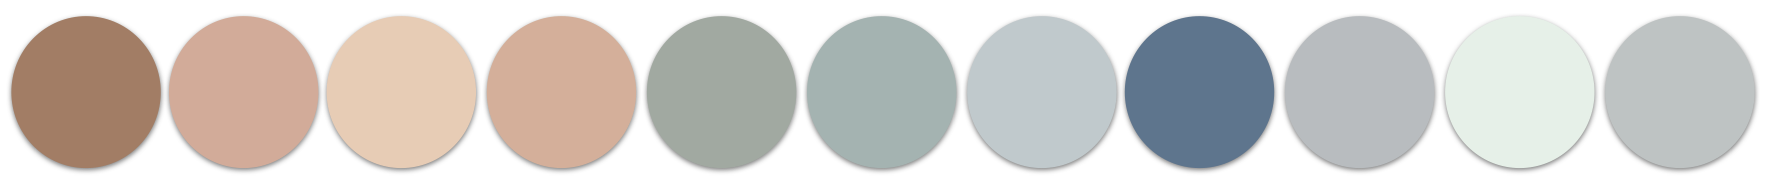
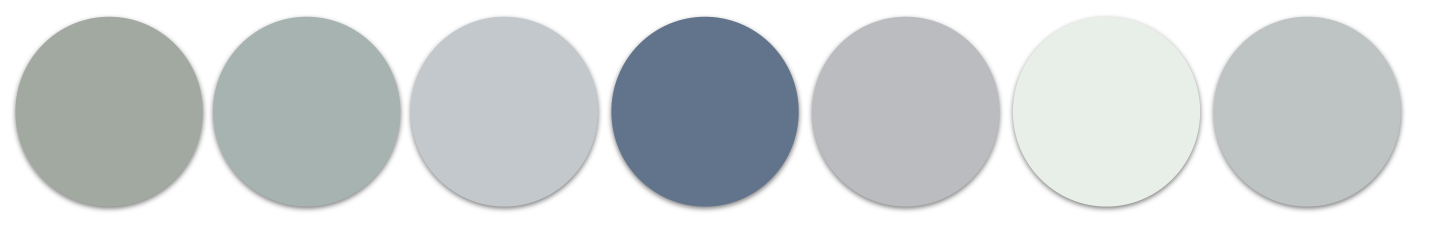
revision

diff --git a/index.html b/index.html
@@ -31,7 +31,9 @@
     <link rel="stylesheet" href="css/animate.min.css">
     <link rel="stylesheet" href="css/font-awesome.min.css">
     <link rel="stylesheet" href="css/masking-input.css"/>
-    <link  rel="stylesheet" href="https://fonts.cdnfonts.com/css/olivia-dhorgent">
+    <link rel="stylesheet" href="https://fonts.cdnfonts.com/css/olivia-dhorgent">
+    <link rel="stylesheet" href="http://fonts.cdnfonts.com/css/faradilla">
+    <link rel="stylesheet" href="http://fonts.cdnfonts.com/css/adega-serif">
     <script src="js/vendor/modernizr-2.8.3-respond-1.4.2.min.js"></script>
 
 
@@ -51,7 +53,7 @@
                         <ul class="primary-nav">
                             <!-- <li><a href="#eng-pics">How We Met</a></li> -->
                             <li><a href="#events">Wedding Details</a></li>
-                            <li><a href="#instagram">##CHINOwsWhatsBestforJONA
+                            <li><a href="#instagram">#CHINOwsWhatsBestforJONA
                             </a></li>
                             <!-- <li class="hidden-sm hidden-xs"><a href="#video-bg">Venue</a></li> -->
                         </ul>
@@ -203,15 +205,24 @@
         <div class="row">
             <div class="col-md-12 text-center">
                 <div class="wp3">
-                    <h5>CEREMONY and RECEPTION</h5>
+                    <h5>CEREMONY</h5>
                     <br>
                     <p>The ceremony will start at exactly <strong>3:00PM</strong> at <strong>OUR LADY OF EPHESUS CHAPEL, Bella Rosa Gardens, Silang, Cavite
                        </strong>.
                        <br>Please be there <strong>at least 15 minutes</strong> before the time so you will not miss anything.</p>
+                       <p>Please be informed that due to the restrictions, only family members and part of the entourage can enter the chapel during the ceremony,<br>
+                        but you will still be able to witness us tie the knot via <strong>livestream in Zoom/Facebook.</strong>
+                    </p>
+                    <p></p>
                 </div>
                 <div class="wp6">
-                    <p>Cocktails, dinner & good times will follow after the cermony. There are ample parking space beside the venue, you don't need to worry where you can leave your cars.</p>
-                    <p>Should you have trouble finding the venue you can refer to the map below or search the venue in any of your navigation apps.</p>
+                    <h5>RECEPTION</h5>
+                    <br>
+                    <p>Cocktails, dinner & good times will follow after the ceremony.
+                        <br>The chapel and the reception venue is all located in one private estate which was specifically reserved for our special day.</p>
+                    <p>For the other guests, the newlyweds will see you at the <strong>reception at 4:30 PM.</strong></p>
+                    <p>There is ample space in the vicinity thus parking would not be an issue.</p>
+                    <p>Should you have trouble finding the venue, you can refer to the map below or search the venue in any of your navigation apps.</p>
                         <!-- <img src="img/map.png"> -->
                         <h5></h5>
                         <iframe src="https://www.google.com/maps/embed?pb=!1m18!1m12!1m3!1d3868.6653160618184!2d120.97597426445779!3d14.155763540087012!2m3!1f0!2f0!3f0!3m2!1i1024!2i768!4f13.1!3m3!1m2!1s0x33bd798286693c2d%3A0x87e0bfb9805edc53!2sBella%20Rosa%20Gardens!5e0!3m2!1sen!2sph!4v1635674150880!5m2!1sen!2sph" width="600" height="450" style="border:0;" allowfullscreen="" loading="lazy"></iframe>
@@ -226,19 +237,20 @@
                     <div class="col-sm-8 col-xs-8 col-md-4 col-lg-4">
                     <img src="img/wear.png">
                     </div>
-                    <div class="row container">
+                    <div class="row container" id="swatches">
                     <img src="img/swatches.png">
                     </div>
                     <div class="col-sm-2 col-xs-2 col-md-4 col-lg-4"></div>
                     </div>
                     <p></p>
-                    <p>We hope our wedding will be a fun excuse for you to dress up using the colors we chose.</p>
+                    <p>We hope our wedding will be a fun excuse for you to dress up using the colors we chose <strong>(Any shades of pastel blue, green & gray)
+                    </strong>.</p>
                     <p>Gentlemen may dress in a pair of <strong>suit and or longsleeves</strong>, while the ladies may wear <strong>long gowns and cocktail dresses</strong>.<br>
                     </p>
-                    <p>Please wear <strong>solid neutral/earth tones</strong> with no or very minimal prints.<br>
-                    Kindly avoid wearing white as it is reserved for the Bride.<br> 
+                    <p>Please wear <strong>solid colors or with no to very minimal prints.</strong><br>
+                        Kindly avoid wearing white, black, loud colors, denim pants and sneakers.<br> 
                     </p>
-                    <p>The venue is a lush garden, we would advise everyone to comfortable footwear such as chunky heels or flats. </p>
+                    <p>The venue is a lush garden; we would advise everyone to wear comfortable footwear such as block heels or evening flats</p>
                     <p>To ensure the safety of everyone attending, we will require guest to <strong>wear proper face masks</strong> at all times.
                 </div>
                 <div class="wp6" id="gift">
@@ -256,7 +268,7 @@
                     <p>With all that we have, we've been truly blessed,<br>
                         your presence and prayers are all that we request,<br>
                         But if you wish us to give nonetheless,<br>
-                        a monetary gift is one we suggest.
+                        a <strong>monetary gift</strong> is one we suggest.
                         </p>
                 </div>
                 <div class="wp3">
@@ -321,7 +333,7 @@
     <div class="container">
         <div class="row">
             <div class="col-md-6 col-md-offset-3">
-                <h6>RSVP</h6>
+                <h1>RSVP</h1>
                 <p>We would greatly appreciate it if you could RSVP by<br>
                     <strong>November 15, 2021</strong></p>
                 <form id="rsvp-form" class="rsvp-form"

diff --git a/css/styles.min.css b/css/styles.min.css
@@ -9,7 +9,8 @@ p {
 }
 
 h1 {
-    font-size: 60px
+    font-size: 60px;
+    color: #63748B;
 }
 
 h2 {
@@ -42,9 +43,9 @@ h5 {
 h6 {
     color: #63748B;
     font-size: 50px;
-    letter-spacing: 3px;
+    letter-spacing: 0px;
     line-height: 29px;
-    font-family: 'Olivia Dhorgent', sans-serif;
+    font-family: 'faradilla', sans serif;
     padding-top: 40px;
                                                 
 }
@@ -144,7 +145,7 @@ a:focus {
 }
 /*safety protocol numbered*/
 body {
-    font-family: "Open Sans", sans-serif;
+    font-family: 'Adega Serif', sans-serif;
     font-weight: 300;
     color: black;
     -webkit-text-size-adjust: 100%;
@@ -832,6 +833,7 @@ header .member-actions {
     width: 100%;
 }
 
+#swatches img,
 #gift img {
     width: 75%
 }
